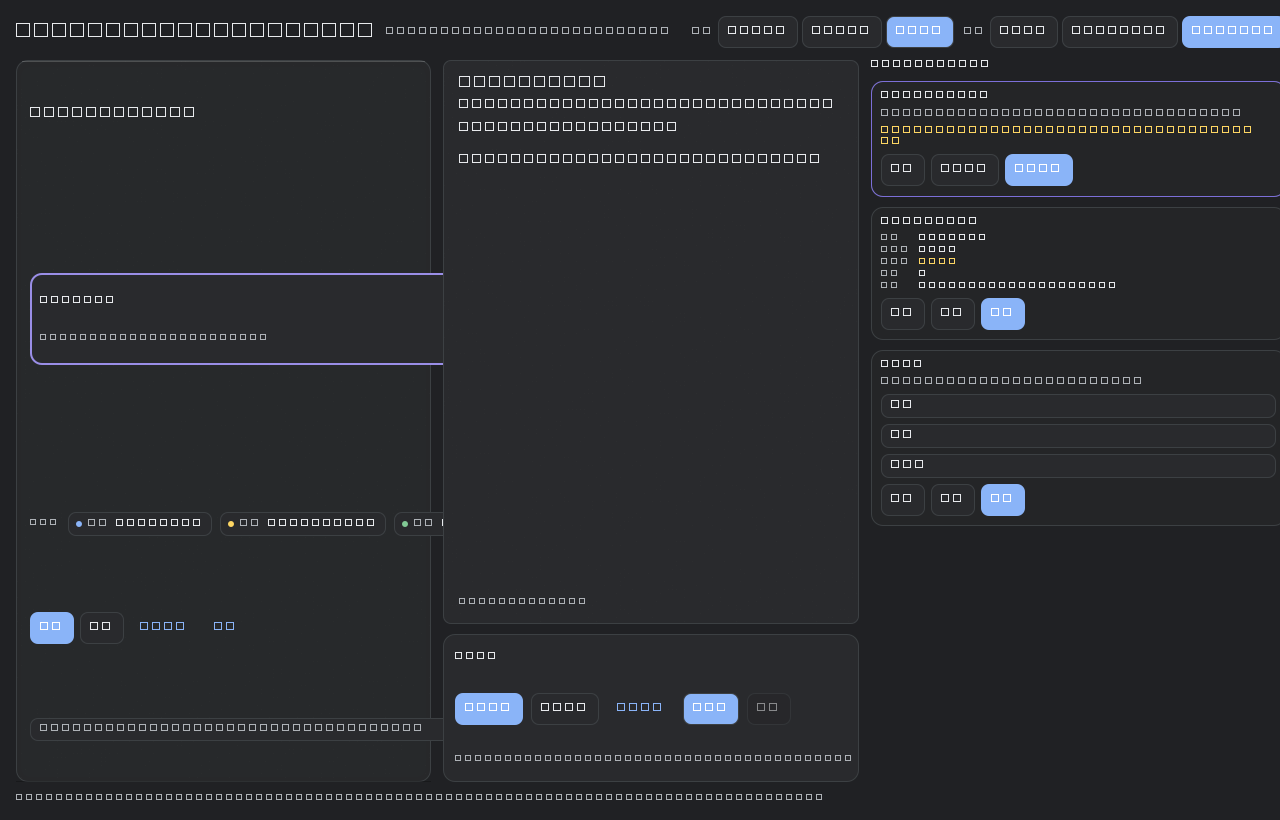
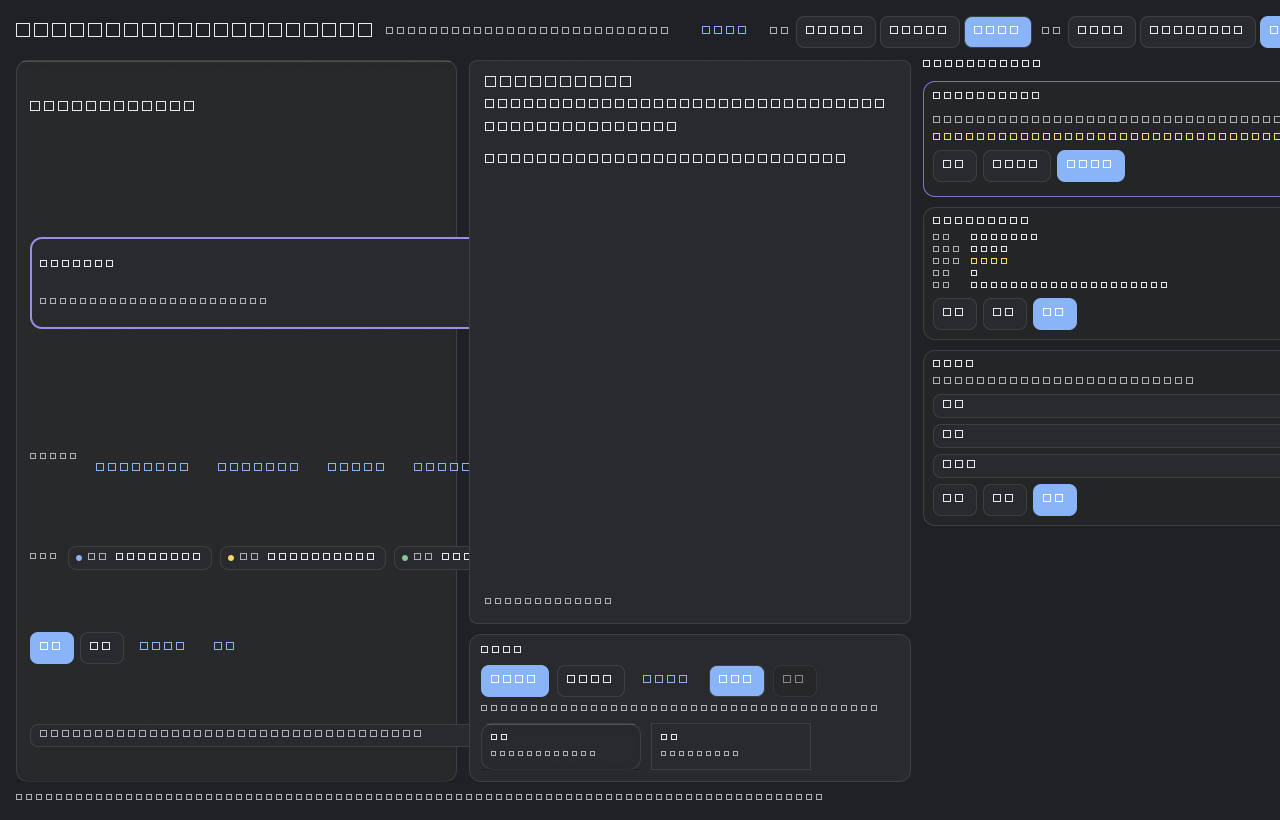
feat(frontend): complete Visual V0 lab with glow states and material compare
- StreamingGlowBorder state demo: Thinking drift / Success / Error / Cancelled
  pins (spec 8.1), wired to the active lab card
- reduceMotion toggle button in the lab header (glow degrades to static)
- Glass vs solid material comparison in the button-tier column
- tests: glow state pinning, reduceMotion linkage (148 total)
- screenshots refreshed + glow-success close-up

diff --git a/src/ai_novel_studio/ui_qml/qml/VisualLab.qml b/src/ai_novel_studio/ui_qml/qml/VisualLab.qml
@@ -65,6 +65,13 @@ ApplicationWindow {
                 Layout.fillWidth: true
             }
 
+            AppButton {
+                objectName: "labReduceMotionButton"
+                text: Facade.reduceMotion ? "动效：关" : "动效：开"
+                ghost: true
+                onClicked: Facade.setReduceMotion(!Facade.reduceMotion)
+            }
+
             // 主题：三段式切换（paper / light / dark）
             RowLayout {
                 spacing: 4
@@ -180,10 +187,48 @@ ApplicationWindow {
                                 }
                             }
                             StreamingGlowBorder {
+                                id: streamingGlow
                                 objectName: "labStreamingGlow"
                                 anchors.fill: parent
                                 radius: Theme.tokens.radius.r12
                                 active: true
+                            }
+                        }
+
+                        // 流光状态演示（规范 8.1）：成功/错误/取消定格状态色，
+                        // 运行态 A↔B 慢速漂移；reduceMotion 退化为静态高亮。
+                        Flow {
+                            Layout.fillWidth: true
+                            spacing: 6
+
+                            Text {
+                                text: "流光状态："
+                                font.pixelSize: 10
+                                color: Theme.tokens.color.textSecondary
+                            }
+                            AppButton {
+                                objectName: "labGlowThinking"
+                                text: "Thinking"
+                                ghost: true
+                                onClicked: streamingGlow.state = ""
+                            }
+                            AppButton {
+                                objectName: "labGlowSuccess"
+                                text: "Success"
+                                ghost: true
+                                onClicked: streamingGlow.state = "success"
+                            }
+                            AppButton {
+                                objectName: "labGlowError"
+                                text: "Error"
+                                ghost: true
+                                onClicked: streamingGlow.state = "error"
+                            }
+                            AppButton {
+                                objectName: "labGlowCancelled"
+                                text: "Cancelled"
+                                ghost: true
+                                onClicked: streamingGlow.state = "cancelled"
                             }
                         }
 
@@ -365,6 +410,55 @@ ApplicationWindow {
                                 font.pixelSize: 10
                                 wrapMode: Text.WordWrap
                                 color: Theme.tokens.color.textSecondary
+                            }
+
+                            // 材质层次对比：同一区域玻璃 vs 实色（规范 4.2）。
+                            RowLayout {
+                                Layout.fillWidth: true
+                                spacing: 10
+
+                                GlassSurface {
+                                    Layout.preferredWidth: 160
+                                    Layout.fillHeight: true
+                                    ColumnLayout {
+                                        anchors.fill: parent
+                                        anchors.margins: 10
+                                        Text {
+                                            text: "玻璃"
+                                            font.pixelSize: 10
+                                            font.bold: true
+                                            color: Theme.tokens.color.textPrimary
+                                        }
+                                        Text {
+                                            Layout.fillWidth: true
+                                            text: "AI / 壳层 · 流动"
+                                            font.pixelSize: 9
+                                            wrapMode: Text.WordWrap
+                                            color: Theme.tokens.color.textSecondary
+                                        }
+                                    }
+                                }
+                                FlatSurface {
+                                    Layout.preferredWidth: 160
+                                    Layout.fillHeight: true
+                                    ColumnLayout {
+                                        anchors.fill: parent
+                                        anchors.margins: 10
+                                        Text {
+                                            text: "实色"
+                                            font.pixelSize: 10
+                                            font.bold: true
+                                            color: Theme.tokens.color.textPrimary
+                                        }
+                                        Text {
+                                            Layout.fillWidth: true
+                                            text: "基础表面 · 稳定"
+                                            font.pixelSize: 9
+                                            wrapMode: Text.WordWrap
+                                            color: Theme.tokens.color.textSecondary
+                                        }
+                                    }
+                                }
                             }
                         }
                     }

diff --git a/tests/ui_qml/test_visual_lab.py b/tests/ui_qml/test_visual_lab.py
@@ -76,6 +76,11 @@ def test_visual_lab_loads_all_demo_surfaces(qtbot: QtBot) -> None:
         "labFormCard",
         "labStreamingGlow",
         "labStaticGlow",
+        "labReduceMotionButton",
+        "labGlowThinking",
+        "labGlowSuccess",
+        "labGlowError",
+        "labGlowCancelled",
         "labTheme-paper",
         "labTheme-dark",
         "labQuality-safe",
@@ -151,3 +156,54 @@ def test_visual_quality_segment_buttons_switch_quality(qtbot: QtBot) -> None:
     assert dark is not None
     QMetaObject.invokeMethod(dark, "clicked")
     qtbot.waitUntil(lambda: theme.property("themeName") == "dark")
+
+
+def test_glow_state_buttons_pin_success_error_cancelled(qtbot: QtBot) -> None:
+    _, _, _, window = _load_lab(qtbot)
+    content = _content(window)
+    glow = _find_item(content, "labStreamingGlow")
+    assert glow is not None
+
+    # Thinking: drift animation is live (blue-violet A/B).
+    assert glow.property("animationRunning") is True
+
+    success = _find_item(content, "labGlowSuccess")
+    assert success is not None
+    QMetaObject.invokeMethod(success, "clicked")
+    qtbot.waitUntil(lambda: glow.property("frameColor") == "#3E7C4F")
+    assert glow.property("animationRunning") is False
+
+    error = _find_item(content, "labGlowError")
+    assert error is not None
+    QMetaObject.invokeMethod(error, "clicked")
+    qtbot.waitUntil(lambda: glow.property("frameColor") == "#A6453F")
+
+    cancelled = _find_item(content, "labGlowCancelled")
+    assert cancelled is not None
+    QMetaObject.invokeMethod(cancelled, "clicked")
+    qtbot.waitUntil(lambda: glow.property("frameColor") == "#9A958C")
+
+    thinking = _find_item(content, "labGlowThinking")
+    assert thinking is not None
+    QMetaObject.invokeMethod(thinking, "clicked")
+    qtbot.waitUntil(lambda: glow.property("animationRunning") is True)
+
+
+def test_reduce_motion_button_toggles_glow_to_static(qtbot: QtBot) -> None:
+    _, facade, _, window = _load_lab(qtbot)
+    content = _content(window)
+    glow = _find_item(content, "labStreamingGlow")
+    toggle = _find_item(content, "labReduceMotionButton")
+    assert glow is not None and toggle is not None
+
+    assert facade.property("reduceMotion") is False
+    assert glow.property("animationRunning") is True
+
+    QMetaObject.invokeMethod(toggle, "clicked")
+    qtbot.waitUntil(lambda: facade.property("reduceMotion") is True)
+    qtbot.waitUntil(lambda: glow.property("animationRunning") is False)
+    assert glow.property("frameColor") == "#7C6FD8"  # static thinkingA
+
+    QMetaObject.invokeMethod(toggle, "clicked")
+    qtbot.waitUntil(lambda: facade.property("reduceMotion") is False)
+    qtbot.waitUntil(lambda: glow.property("animationRunning") is True)

diff --git a/scripts/capture_frontend_visual_lab.py b/scripts/capture_frontend_visual_lab.py
@@ -22,7 +22,7 @@ sys.path.insert(0, str(Path(__file__).resolve().parent.parent / "src"))
 from PySide6.QtCore import QUrl  # noqa: E402
 from PySide6.QtGui import QGuiApplication  # noqa: E402
 from PySide6.QtQml import QQmlApplicationEngine  # noqa: E402
-from PySide6.QtQuick import QQuickWindow  # noqa: E402
+from PySide6.QtQuick import QQuickItem, QQuickWindow  # noqa: E402
 
 from ai_novel_studio.ui_qml.bootstrap import (  # noqa: E402
     register_frontend_types,
@@ -41,6 +41,16 @@ def _pump(app: QGuiApplication, rounds: int = 8) -> None:
     for _ in range(rounds):
         app.processEvents()
         time.sleep(0.03)
+
+
+def _find_item(root: QQuickItem, name: str) -> QQuickItem | None:
+    if root.objectName() == name:
+        return root
+    for child in root.childItems():
+        found = _find_item(child, name)
+        if found is not None:
+            return found
+    return None
 
 
 def main() -> int:
@@ -69,6 +79,18 @@ def main() -> int:
         path = OUT_DIR / filename
         assert image.save(str(path)), f"failed to save {path}"
         print(f"saved {path}")
+
+    # Glow success-state close-up (spec 8.1: success pins to green, no drift).
+    theme.setTheme("paper")
+    theme.setVisualQuality("balanced")
+    glow = _find_item(root.contentItem(), "labStreamingGlow")
+    if glow is not None:
+        glow.setProperty("state", "success")
+    _pump(app, 8)
+    image = root.grabWindow()
+    path = OUT_DIR / "visual-lab-paper-glow-success.png"
+    assert image.save(str(path)), f"failed to save {path}"
+    print(f"saved {path}")
 
     engine.deleteLater()
     return 0
